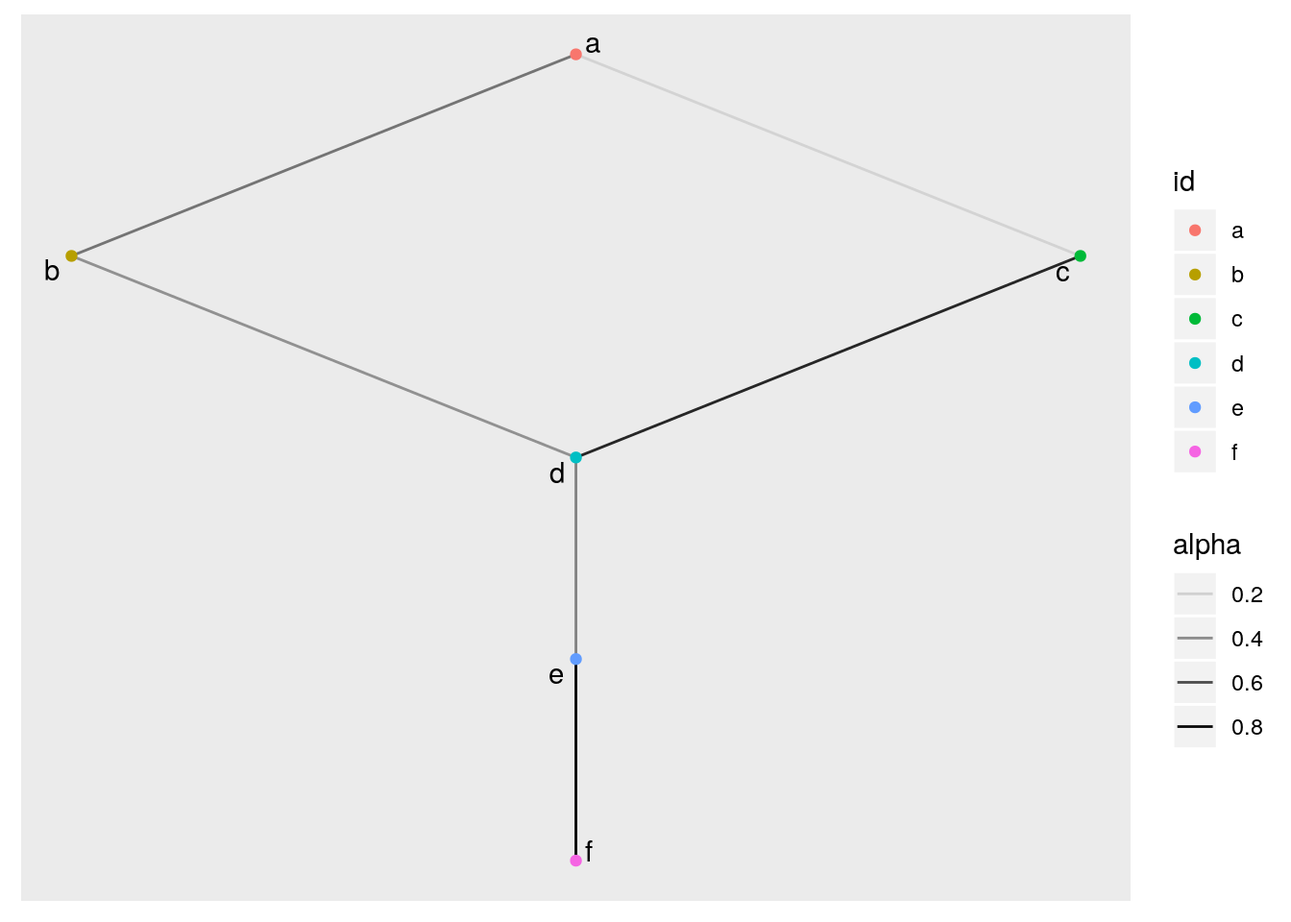
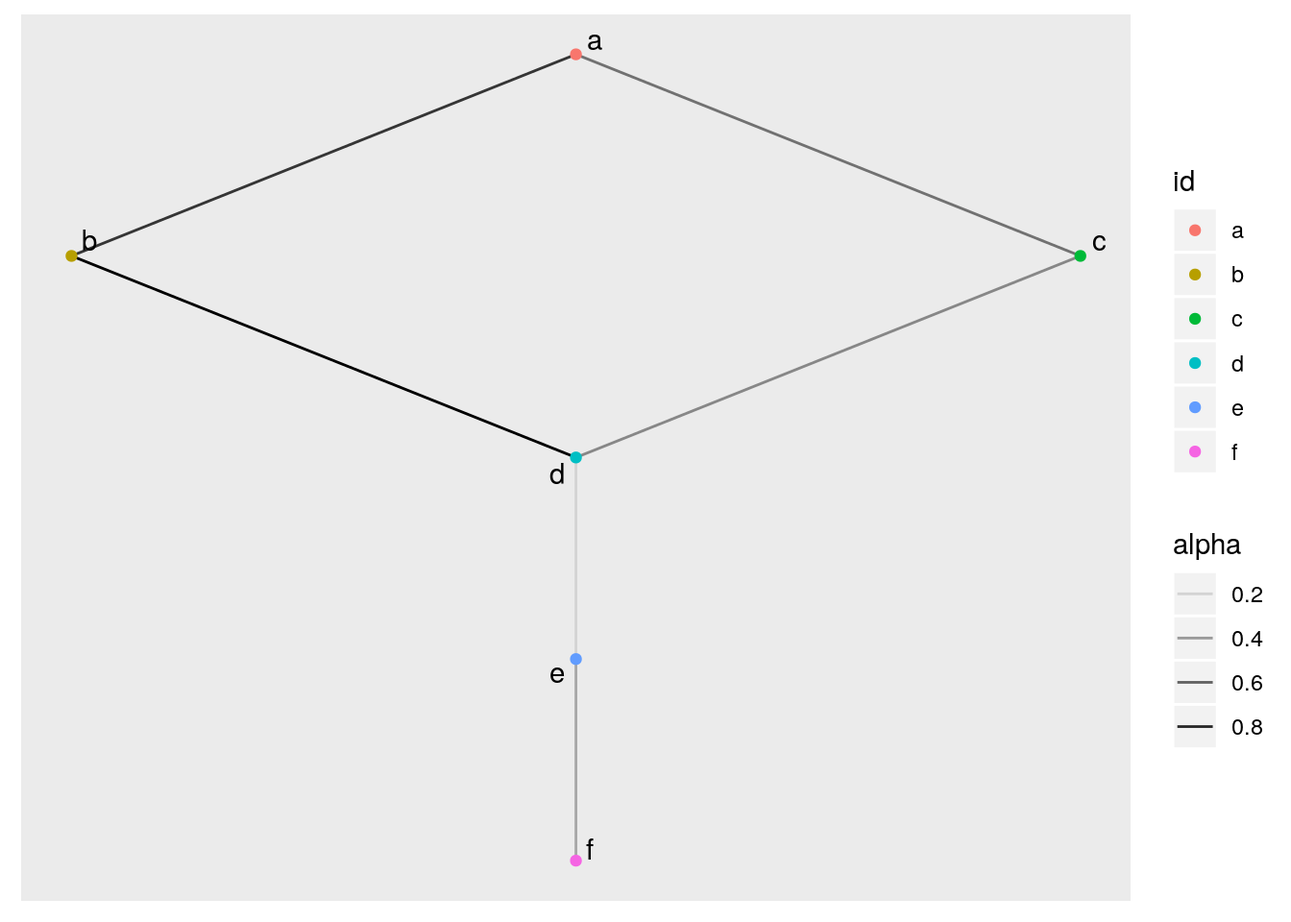
claire edits

diff --git a/content/post/2020-03-08-intro-to-networks.html b/content/post/2020-03-08-intro-to-networks.html
@@ -14,7 +14,7 @@ description: 'Using the tidygraph, ggraph, and networkD3 packages'
 
 
 <p>In this post I will walk you through the basics of working with network objects in R. First we’ll create a simple network from scratch, manipulate it using tidygraph’s very clean framework, and then do some simple plotting using ggraph and networkD3. After that we will step it up a bit with a larger dataset to calculate some network metrics.</p>
-<p>My goal for this post is to show how the basic manipulation steps from the simple example can also be used on much more intense data to easily allow us to carry out a lot of complex calculations with very little code. I would like to note all of this is possible because of the huge effort software developers have put into projects like <code>igraph</code>, <code>tidygraph</code>, <code>ggraph</code>, and <code>networkD3</code>.</p>
+<p>My goal for this post is to show how the basic manipulation steps from the simple example can also be used on much more complicated data to easily allow us to carry out many complex calculations with very little code. I would like to note that all of this is possible because of the huge effort software developers have put into projects like <code>igraph</code>, <code>tidygraph</code>, <code>ggraph</code>, and <code>networkD3</code>.</p>
 <div id="libraries-needed" class="section level1">
 <h1>Libraries needed:</h1>
 <pre class="r"><code>library(tidygraph) # Network manipulation
@@ -26,14 +26,14 @@ library(networkD3) # Interactive network plotting</code></pre>
 </div>
 <div id="lets-make-a-simple-graph" class="section level1">
 <h1>Lets make a simple graph!</h1>
-<p>Making networks is much easier than it sounds. We can build one by combining two vectors of equal length. All it takes is two simple vectors of equal length, then just bind them into a dataframe.</p>
+<p>Making networks is much easier than it sounds. We can build one by creating two vectors of equal length and then binding them into a dataframe.</p>
 <pre class="r"><code>from  &lt;- c(1, 1, 2, 3, 4, 5)
 
 to    &lt;- c(2, 3, 4, 4 ,5, 6)
 
 # combine the from and to vectors into a simple dataframe 
 basic &lt;- tibble(from, to)</code></pre>
-<p>What we just made is called an “edge list” which is essentially a dataframe that says “there is a connection from node 1 to node 2, another from node 1 to node 3.” And on and on… This is minimal unit for a network. We have our nodes (all the unique elements in our network 1, 2, 3, 4, 5, and 6) and the information of how they are connected (the order in which they appear in the data).</p>
+<p>What we just made is called an “edge list” which is essentially a dataframe that says “there is a connection from node 1 to node 2, another from node 1 to node 3.” And on and on… This is the minimal unit for a network. We have our nodes (all the unique elements in our network 1, 2, 3, 4, 5, and 6) and the information of how they are connected (the order in which they appear in the data).</p>
 <p>Nodes typically represent the “actors” of our network. They could be governmental entities, animals, corporations, anything really. If you squint hard enough there are networks to be found all around.</p>
 <pre><code>## # A tibble: 6 x 2
 ##    from    to
@@ -52,13 +52,13 @@ basic &lt;- tibble(from, to)</code></pre>
 </div>
 <div id="converting-the-edge-list-to-a-tidygraph-object." class="section level1">
 <h1>Converting the edge list to a tidygraph object.</h1>
-<p>In order to convert the edge list into a tidygraph object we use <code>tidygraph::as_tbl_graph()</code>.</p>
+<p>In order to convert the edge list into a tidygraph object, we use <code>tidygraph::as_tbl_graph()</code>.</p>
 <pre class="r"><code>tidy_basic &lt;- basic %&gt;% 
   as_tbl_graph()</code></pre>
 </div>
 <div id="what-is-a-tidygraph-object" class="section level1">
 <h1>What is a tidygraph object?</h1>
-<p>The tidygraph object is two dataframes connected. The nodes dataframe (each point) and the edge dataframe (each connection). This structure very human readable and allows for easy inspection of our object. Look below at what is returned when we call the tidygraph object.</p>
+<p>The tidygraph object consists of two dataframes connected: The nodes dataframe (each point) and the edge dataframe (each connection). This structure is very human readable and allows for easy inspection of our object. Look below at what is returned when we call the tidygraph object.</p>
 <pre><code>## # A tbl_graph: 6 nodes and 6 edges
 ## #
 ## # A directed acyclic simple graph with 1 component
@@ -80,17 +80,17 @@ basic &lt;- tibble(from, to)</code></pre>
 ## 2     1     3
 ## 3     2     4
 ## # … with 3 more rows</code></pre>
-<p>Tidygraph is powerful because it is a thin wrapper around igraph, and igraph is very very powerful. Tidygraph allows us to use the easily readable code that we are use to from the tidyverse to manipulate igraph objects.</p>
+<p>Tidygraph allows us to use the easily readable code that we are used to from the tidyverse to manipulate igraph objects.</p>
 </div>
 <div id="working-with-tidygraph" class="section level1">
 <h1>Working with tidygraph</h1>
-<p>In order to manipulate the <code>tbl_graph</code> we need to tell R which of the two data frames we want to operate on. This is done with <code>activate(nodes)</code> or <code>activate(edges)</code>. I will show how we would name each node, and give each edge a random amount of transparency. Note the activate call between the operations.</p>
+<p>In order to manipulate the <code>tbl_graph</code> we need to tell R which of the two data frames we want to operate on. This is done with <code>activate(nodes)</code> or <code>activate(edges)</code>. I will show how we can name each node and give each edge a random amount of transparency. Note the activate call between the operations.</p>
 <pre class="r"><code>tidy_basic_manipulated &lt;- tidy_basic %&gt;% 
   activate(nodes) %&gt;%              # tell tidygraph we want to work on the modes dataframe
   mutate(id = letters[1:6]) %&gt;%    # adding an id column for each node a - f
   activate(edges) %&gt;%              # tell tidygraph we want to work on the edge dataframe
   mutate(alpha = runif(6, min = 0, max = 1)) # give each edge a random transparency value</code></pre>
-<p>Now let’s take a quick look at the columns we added to the plot. We can see the new alpha column added to the edges, and the id column added to the nodes. Also because the edges were the last thing I activated they are still active here.</p>
+<p>Now let’s take a quick look at the columns we added to the plot. We can see the new alpha column added to the edges and the id column added to the nodes.</p>
 <pre><code>## # A tbl_graph: 6 nodes and 6 edges
 ## #
 ## # A directed acyclic simple graph with 1 component
@@ -98,12 +98,12 @@ basic &lt;- tibble(from, to)</code></pre>
 ## # Edge Data: 6 x 3 (active)
 ##    from    to alpha
 ##   &lt;int&gt; &lt;int&gt; &lt;dbl&gt;
-## 1     1     2 0.468
-## 2     1     3 0.169
-## 3     2     4 0.377
-## 4     3     4 0.713
-## 5     4     5 0.420
-## 6     5     6 0.831
+## 1     1     2 0.749
+## 2     1     3 0.530
+## 3     2     4 0.939
+## 4     3     4 0.452
+## 5     4     5 0.177
+## 6     5     6 0.337
 ## #
 ## # Node Data: 6 x 2
 ##   name  id   
@@ -115,7 +115,7 @@ basic &lt;- tibble(from, to)</code></pre>
 </div>
 <div id="some-quick-plotting-using-ggraph." class="section level1">
 <h1>Some quick plotting using ggraph.</h1>
-<p>We will delve into this a bit more later so for now lets make a basic plot. In order to use ggraph we need to specify the layout, (I will explain this later) and we need to give both the nodes and edges a <code>geom_</code>.</p>
+<p>We will delve into this a bit more later, so for now lets just make a basic plot. In order to use ggraph we need to specify the layout, (I will explain this later) and we need to give both the nodes and edges a <code>geom_</code>.</p>
 <pre class="r"><code>ggraph(tidy_basic_manipulated, layout = &#39;sugiyama&#39;)+
   geom_edge_link  (aes(alpha = alpha)) +          # plot the links between nodes
   geom_node_point (aes(color = id)) +             # add color to the nodes
@@ -125,17 +125,17 @@ Super! We created a simple edge list, made it into a tidy graph object, manipula
 </div>
 <div id="a-slightly-more-complex-example" class="section level1">
 <h1>A slightly more complex example</h1>
-<p>Lets look a the highschool dataset from <code>ggraph</code>. This dataset was made by asking a class of students at a all boys highschool to name list their friends in 1957 and then again in 1958. To keep things simple I am going to just use the first year of data. So, lets filter for the first year of data and turn it into a tidygraph.</p>
+<p>Let’s look at the highschool dataset from <code>ggraph</code>. This dataset was made by asking a class of students at an all boys highschool to list their friends in 1957 and then again in 1958. To keep things simple, I am going to just use the first year of data. So let’s filter for the first year of data and turn it into a tidygraph.</p>
 <pre class="r"><code>hs_tidy &lt;- highschool %&gt;% 
   filter(year == 1957) %&gt;% # remove the time component for this example
   select(-year) %&gt;% # remove the year column we wont be needing it
   as_tbl_graph() # turn the edge list into a tbl_graph</code></pre>
-<p>And lets plot it real quick so we know what we are dealing with.</p>
+<p>And let’s plot it real quick so we know what we are dealing with.</p>
 <pre class="r"><code>ggraph(hs_tidy, layout = &quot;stress&quot;) +
   geom_node_point() +
   geom_edge_link()</code></pre>
 <p><img src="/post/2020-03-08-intro-to-networks_files/figure-html/unnamed-chunk-11-1.png" width="672" /></p>
-<p>Now that we have our data into tidygraph’s tbl_graph object we can easily calculate many statistical measures for each node edge easily combining <code>activate()</code> and <code>mutate()</code>. There are quite a few centrality measures from igraph and <em>all</em> are fully supported with tidygraph. A full list can be found <a href="https://rdrr.io/cran/tidygraph/man/centrality.html">HERE</a>.</p>
+<p>Now that we have our data into tidygraph’s tbl_graph object we can easily calculate many statistical measures for each node or edge by easily combining <code>activate()</code> and <code>mutate()</code>. There are quite a few centrality measures from igraph and <em>all</em> are fully supported with tidygraph. A full list can be found <a href="https://rdrr.io/cran/tidygraph/man/centrality.html">HERE</a>.</p>
 <pre class="r"><code>hs_manipulated &lt;- hs_tidy %&gt;% 
   activate(nodes) %&gt;% 
   mutate(  
@@ -153,7 +153,7 @@ Super! We created a simple edge list, made it into a tidy graph object, manipula
     # calculate edge centrality
     weight =  centrality_edge_betweenness()
   )</code></pre>
-<p>Just like that we calculated two types of node centrality, ran two grouping algorithms, and calculated edge betweenness! Let’s take a look at our new metrics</p>
+<p>Just like that, we calculated two types of node centrality, ran two grouping algorithms, and calculated edge betweenness! Let’s take a look at our new metrics.</p>
 <pre><code>## # A tbl_graph: 70 nodes and 243 edges
 ## #
 ## # A directed simple graph with 2 components
@@ -182,7 +182,7 @@ Super! We created a simple edge list, made it into a tidy graph object, manipula
   geom_node_point(aes(color = walktrap,
                       size = central_alpha)) </code></pre>
 <p><img src="/post/2020-03-08-intro-to-networks_files/figure-html/unnamed-chunk-14-1.png" width="672" /></p>
-<p>Now lets play around a bit with some of the functionality of ggraph. This package is made to behave a lot like ggplot2. However, one key difference is the layout argument. This tells ggraph what algorithm to use when laying out the nodes. You can go really deep down this rabbit hole. If you want to you can start creating your own layouts with the <a href="https://cran.r-project.org/web/packages/particles/vignettes/intro.html">particles package</a>.</p>
+<p>Now lets play around a bit with some of the functionality of ggraph. This package is made to behave a lot like ggplot2. However, one key difference is the layout argument. This tells ggraph which algorithm to use when laying out the nodes. You can go really deep down this rabbit hole if you like. If you want to, you can start creating your own layouts with the <a href="https://cran.r-project.org/web/packages/particles/vignettes/intro.html">particles package</a>.</p>
 <p>Or, you can just do what I do and choose random ones until you get one you like.</p>
 <pre class="r"><code>a &lt;- ggraph(hs_manipulated, layout = &quot;kk&quot;) +
   geom_node_point(aes(color = components)) +
@@ -222,11 +222,11 @@ plots_compared &lt;- ((a/b/c) | (d/e/f)) +
 
 plots_compared </code></pre>
 <p><img src="/post/2020-03-08-intro-to-networks_files/figure-html/unnamed-chunk-15-1.png" width="672" /></p>
-<p>Now that you have mastered static plotting, lets take another look at the interactive plotting we can do with networkD3</p>
+<p>Now that you have mastered static plotting, let’s take another look at the interactive plotting we can do with networkD3.</p>
 </div>
 <div id="use-networkd3-to-make-a-more-detailed-plot" class="section level1">
 <h1>Use networkD3 to make a more detailed plot</h1>
-<p>So, unfortunately networkD3 does not play nicely directly with tidygraph so we need to do some finagling. First we need to convert our tidygraph object to a network d3 object using <code>igraph_to_networkD3()</code>. In order to specify the group each nodes belongs in we need to extract a named vector to specify the <code>group</code> argument. Then we need to create our JavaScript color scale.</p>
+<p>Unfortunately, networkD3 does not play nicely with tidygraph so we’ll need to do some finagling. First we need to convert our tidygraph object to a network d3 object using <code>igraph_to_networkD3()</code>. In order to specify the group each nodes belongs in, we need to extract a named vector to specify the <code>group</code> argument. Then we need to create our JavaScript color scale.</p>
 <pre class="r"><code># 1. Make the named vector that specifies which group each node belongs to
 
 ## extract our nodes from tidygraph as a data frame
@@ -262,5 +262,5 @@ forceNetwork(Links = d3_object$links,
              zoom = TRUE)</code></pre>
 <div id="htmlwidget-2" style="width:672px;height:480px;" class="forceNetwork html-widget"></div>
 <script type="application/json" data-for="htmlwidget-2">{"x":{"links":{"source":[28,17,16,18,8,5,26,0,7,0,2,16,38,17,7,11,6,3,24,14,17,16,4,3,9,8,13,5,10,20,11,12,20,0,18,48,1,35,11,10,8,48,10,18,19,11,8,1,35,5,12,29,17,36,36,32,45,65,34,23,33,33,29,43,36,37,27,23,39,23,30,28,24,37,25,20,18,26,43,56,25,31,17,23,21,34,24,28,40,39,23,14,30,23,33,38,30,40,21,14,38,30,33,4,3,29,39,44,51,54,52,31,36,41,47,49,44,32,49,27,54,52,51,42,3,9,45,21,49,50,19,20,35,22,8,21,45,47,9,50,44,49,21,44,9,45,47,43,56,42,19,0,52,46,35,56,54,19,42,46,0,51,42,57,58,36,43,18,62,59,21,57,55,65,21,62,57,29,65,66,51,67,68,64,63,68,53,64,66,59,65,55,21,57,58,60,67,68,66,54,64,61,66,63,61,67,68,60,38,47,62,21,39,49,40,68,61,60,63,64,51,67,15,53,48,46,68,63,54,60,42,51,54,46,53,66,60,64,67,61,63,15,2],"target":[69,9,9,10,10,11,11,12,12,13,13,14,14,14,15,15,15,16,16,16,16,17,17,17,17,18,18,18,18,18,18,19,19,19,19,19,19,19,19,19,19,20,20,20,20,20,20,20,20,20,20,23,24,25,26,27,27,28,28,29,29,30,30,31,31,32,32,32,33,33,33,34,34,34,35,35,35,35,36,36,36,36,3,37,37,37,37,37,38,38,38,38,38,39,39,39,39,39,40,40,40,40,40,40,40,40,40,41,42,42,42,43,43,44,44,44,45,45,45,45,46,46,46,46,4,47,47,47,47,47,48,48,48,48,48,49,49,49,49,49,49,50,50,50,50,50,50,51,51,51,51,51,51,51,52,52,52,52,52,52,52,52,54,55,55,56,56,5,57,57,57,58,58,58,59,59,59,59,59,60,60,60,60,60,61,61,61,61,61,62,62,62,62,62,62,63,63,63,63,63,63,63,64,64,64,64,64,64,65,65,65,65,65,65,65,66,66,66,66,66,66,66,6,67,67,67,67,67,67,67,67,68,68,68,68,68,68,68,68,68,68,7,8],"colour":["#666","#666","#666","#666","#666","#666","#666","#666","#666","#666","#666","#666","#666","#666","#666","#666","#666","#666","#666","#666","#666","#666","#666","#666","#666","#666","#666","#666","#666","#666","#666","#666","#666","#666","#666","#666","#666","#666","#666","#666","#666","#666","#666","#666","#666","#666","#666","#666","#666","#666","#666","#666","#666","#666","#666","#666","#666","#666","#666","#666","#666","#666","#666","#666","#666","#666","#666","#666","#666","#666","#666","#666","#666","#666","#666","#666","#666","#666","#666","#666","#666","#666","#666","#666","#666","#666","#666","#666","#666","#666","#666","#666","#666","#666","#666","#666","#666","#666","#666","#666","#666","#666","#666","#666","#666","#666","#666","#666","#666","#666","#666","#666","#666","#666","#666","#666","#666","#666","#666","#666","#666","#666","#666","#666","#666","#666","#666","#666","#666","#666","#666","#666","#666","#666","#666","#666","#666","#666","#666","#666","#666","#666","#666","#666","#666","#666","#666","#666","#666","#666","#666","#666","#666","#666","#666","#666","#666","#666","#666","#666","#666","#666","#666","#666","#666","#666","#666","#666","#666","#666","#666","#666","#666","#666","#666","#666","#666","#666","#666","#666","#666","#666","#666","#666","#666","#666","#666","#666","#666","#666","#666","#666","#666","#666","#666","#666","#666","#666","#666","#666","#666","#666","#666","#666","#666","#666","#666","#666","#666","#666","#666","#666","#666","#666","#666","#666","#666","#666","#666","#666","#666","#666","#666","#666","#666","#666","#666","#666","#666","#666","#666","#666","#666","#666","#666","#666","#666","#666","#666","#666","#666","#666","#666"]},"nodes":{"name":["1","2","3","4","5","6","7","8","9","11","12","13","14","15","16","17","18","19","20","21","22","23","24","26","27","28","29","30","31","32","33","34","35","36","37","38","39","40","41","42","43","44","45","46","47","48","49","50","51","52","53","54","55","56","57","58","59","60","61","62","63","64","65","66","67","68","69","70","71","10"],"group":[1,1,1,2,2,1,1,1,1,2,1,1,1,1,2,1,2,2,1,1,1,2,1,2,2,1,1,2,2,2,2,1,2,2,2,1,1,2,2,2,2,2,1,1,2,2,1,2,1,2,2,1,1,1,1,2,1,2,2,2,1,1,2,1,1,2,1,1,1,2]},"options":{"NodeID":"name","Group":"group","colourScale":"d3.scaleOrdinal()\n            .domain([\"1\", \"2\"])\n           .range([\"#FF6900\", \"#89cff0\"]);","fontSize":7,"fontFamily":"serif","clickTextSize":17.5,"linkDistance":50,"linkWidth":"function(d) { return Math.sqrt(d.value); }","charge":-30,"opacity":0.6,"zoom":true,"legend":false,"arrows":false,"nodesize":false,"radiusCalculation":" Math.sqrt(d.nodesize)+6","bounded":false,"opacityNoHover":0,"clickAction":null}},"evals":[],"jsHooks":[]}</script>
-<p>We will leave it there for now, but if you are looking for more check out <a href="https://www.data-imaginist.com/2018/tidygraph-1-1-a-tidy-hope/">this awesome post</a> from the creator of tidygraph. Or, for a really cool applied example check out <a href="https://www.samples-of-thoughts.com/2020/connecting-disinformation-with-tidygraph/">this analysis</a> by <span class="citation">[@corrieaar]</span>(<a href="https://twitter.com/corrieaar" class="uri">https://twitter.com/corrieaar</a>).</p>
+<p>We will leave it there for now, but if you are looking for more I recommend <a href="https://www.data-imaginist.com/2018/tidygraph-1-1-a-tidy-hope/">this awesome post</a> from the creator of tidygraph. And for a really cool applied example, check out <a href="https://www.samples-of-thoughts.com/2020/connecting-disinformation-with-tidygraph/">this analysis</a>.</p>
 </div>

diff --git a/public/2020/03/08/2020-03-08-intro-to-networks/index.html b/public/2020/03/08/2020-03-08-intro-to-networks/index.html
@@ -85,7 +85,7 @@
 
 
 <p>In this post I will walk you through the basics of working with network objects in R. First we’ll create a simple network from scratch, manipulate it using tidygraph’s very clean framework, and then do some simple plotting using ggraph and networkD3. After that we will step it up a bit with a larger dataset to calculate some network metrics.</p>
-<p>My goal for this post is to show how the basic manipulation steps from the simple example can also be used on much more intense data to easily allow us to carry out a lot of complex calculations with very little code. I would like to note all of this is possible because of the huge effort software developers have put into projects like <code>igraph</code>, <code>tidygraph</code>, <code>ggraph</code>, and <code>networkD3</code>.</p>
+<p>My goal for this post is to show how the basic manipulation steps from the simple example can also be used on much more complicated data to easily allow us to carry out many complex calculations with very little code. I would like to note that all of this is possible because of the huge effort software developers have put into projects like <code>igraph</code>, <code>tidygraph</code>, <code>ggraph</code>, and <code>networkD3</code>.</p>
 <div id="libraries-needed" class="section level1">
 <h1>Libraries needed:</h1>
 <pre class="r"><code>library(tidygraph) # Network manipulation
@@ -97,14 +97,14 @@ library(networkD3) # Interactive network plotting</code></pre>
 </div>
 <div id="lets-make-a-simple-graph" class="section level1">
 <h1>Lets make a simple graph!</h1>
-<p>Making networks is much easier than it sounds. We can build one by combining two vectors of equal length. All it takes is two simple vectors of equal length, then just bind them into a dataframe.</p>
+<p>Making networks is much easier than it sounds. We can build one by creating two vectors of equal length and then binding them into a dataframe.</p>
 <pre class="r"><code>from  &lt;- c(1, 1, 2, 3, 4, 5)
 
 to    &lt;- c(2, 3, 4, 4 ,5, 6)
 
 # combine the from and to vectors into a simple dataframe 
 basic &lt;- tibble(from, to)</code></pre>
-<p>What we just made is called an “edge list” which is essentially a dataframe that says “there is a connection from node 1 to node 2, another from node 1 to node 3.” And on and on… This is minimal unit for a network. We have our nodes (all the unique elements in our network 1, 2, 3, 4, 5, and 6) and the information of how they are connected (the order in which they appear in the data).</p>
+<p>What we just made is called an “edge list” which is essentially a dataframe that says “there is a connection from node 1 to node 2, another from node 1 to node 3.” And on and on… This is the minimal unit for a network. We have our nodes (all the unique elements in our network 1, 2, 3, 4, 5, and 6) and the information of how they are connected (the order in which they appear in the data).</p>
 <p>Nodes typically represent the “actors” of our network. They could be governmental entities, animals, corporations, anything really. If you squint hard enough there are networks to be found all around.</p>
 <pre><code>## # A tibble: 6 x 2
 ##    from    to
@@ -123,13 +123,13 @@ basic &lt;- tibble(from, to)</code></pre>
 </div>
 <div id="converting-the-edge-list-to-a-tidygraph-object." class="section level1">
 <h1>Converting the edge list to a tidygraph object.</h1>
-<p>In order to convert the edge list into a tidygraph object we use <code>tidygraph::as_tbl_graph()</code>.</p>
+<p>In order to convert the edge list into a tidygraph object, we use <code>tidygraph::as_tbl_graph()</code>.</p>
 <pre class="r"><code>tidy_basic &lt;- basic %&gt;% 
   as_tbl_graph()</code></pre>
 </div>
 <div id="what-is-a-tidygraph-object" class="section level1">
 <h1>What is a tidygraph object?</h1>
-<p>The tidygraph object is two dataframes connected. The nodes dataframe (each point) and the edge dataframe (each connection). This structure very human readable and allows for easy inspection of our object. Look below at what is returned when we call the tidygraph object.</p>
+<p>The tidygraph object consists of two dataframes connected: The nodes dataframe (each point) and the edge dataframe (each connection). This structure is very human readable and allows for easy inspection of our object. Look below at what is returned when we call the tidygraph object.</p>
 <pre><code>## # A tbl_graph: 6 nodes and 6 edges
 ## #
 ## # A directed acyclic simple graph with 1 component
@@ -151,17 +151,17 @@ basic &lt;- tibble(from, to)</code></pre>
 ## 2     1     3
 ## 3     2     4
 ## # … with 3 more rows</code></pre>
-<p>Tidygraph is powerful because it is a thin wrapper around igraph, and igraph is very very powerful. Tidygraph allows us to use the easily readable code that we are use to from the tidyverse to manipulate igraph objects.</p>
+<p>Tidygraph allows us to use the easily readable code that we are used to from the tidyverse to manipulate igraph objects.</p>
 </div>
 <div id="working-with-tidygraph" class="section level1">
 <h1>Working with tidygraph</h1>
-<p>In order to manipulate the <code>tbl_graph</code> we need to tell R which of the two data frames we want to operate on. This is done with <code>activate(nodes)</code> or <code>activate(edges)</code>. I will show how we would name each node, and give each edge a random amount of transparency. Note the activate call between the operations.</p>
+<p>In order to manipulate the <code>tbl_graph</code> we need to tell R which of the two data frames we want to operate on. This is done with <code>activate(nodes)</code> or <code>activate(edges)</code>. I will show how we can name each node and give each edge a random amount of transparency. Note the activate call between the operations.</p>
 <pre class="r"><code>tidy_basic_manipulated &lt;- tidy_basic %&gt;% 
   activate(nodes) %&gt;%              # tell tidygraph we want to work on the modes dataframe
   mutate(id = letters[1:6]) %&gt;%    # adding an id column for each node a - f
   activate(edges) %&gt;%              # tell tidygraph we want to work on the edge dataframe
   mutate(alpha = runif(6, min = 0, max = 1)) # give each edge a random transparency value</code></pre>
-<p>Now let’s take a quick look at the columns we added to the plot. We can see the new alpha column added to the edges, and the id column added to the nodes. Also because the edges were the last thing I activated they are still active here.</p>
+<p>Now let’s take a quick look at the columns we added to the plot. We can see the new alpha column added to the edges and the id column added to the nodes.</p>
 <pre><code>## # A tbl_graph: 6 nodes and 6 edges
 ## #
 ## # A directed acyclic simple graph with 1 component
@@ -169,12 +169,12 @@ basic &lt;- tibble(from, to)</code></pre>
 ## # Edge Data: 6 x 3 (active)
 ##    from    to alpha
 ##   &lt;int&gt; &lt;int&gt; &lt;dbl&gt;
-## 1     1     2 0.468
-## 2     1     3 0.169
-## 3     2     4 0.377
-## 4     3     4 0.713
-## 5     4     5 0.420
-## 6     5     6 0.831
+## 1     1     2 0.749
+## 2     1     3 0.530
+## 3     2     4 0.939
+## 4     3     4 0.452
+## 5     4     5 0.177
+## 6     5     6 0.337
 ## #
 ## # Node Data: 6 x 2
 ##   name  id   
@@ -186,7 +186,7 @@ basic &lt;- tibble(from, to)</code></pre>
 </div>
 <div id="some-quick-plotting-using-ggraph." class="section level1">
 <h1>Some quick plotting using ggraph.</h1>
-<p>We will delve into this a bit more later so for now lets make a basic plot. In order to use ggraph we need to specify the layout, (I will explain this later) and we need to give both the nodes and edges a <code>geom_</code>.</p>
+<p>We will delve into this a bit more later, so for now lets just make a basic plot. In order to use ggraph we need to specify the layout, (I will explain this later) and we need to give both the nodes and edges a <code>geom_</code>.</p>
 <pre class="r"><code>ggraph(tidy_basic_manipulated, layout = &#39;sugiyama&#39;)+
   geom_edge_link  (aes(alpha = alpha)) +          # plot the links between nodes
   geom_node_point (aes(color = id)) +             # add color to the nodes
@@ -196,17 +196,17 @@ Super! We created a simple edge list, made it into a tidy graph object, manipula
 </div>
 <div id="a-slightly-more-complex-example" class="section level1">
 <h1>A slightly more complex example</h1>
-<p>Lets look a the highschool dataset from <code>ggraph</code>. This dataset was made by asking a class of students at a all boys highschool to name list their friends in 1957 and then again in 1958. To keep things simple I am going to just use the first year of data. So, lets filter for the first year of data and turn it into a tidygraph.</p>
+<p>Let’s look at the highschool dataset from <code>ggraph</code>. This dataset was made by asking a class of students at an all boys highschool to list their friends in 1957 and then again in 1958. To keep things simple, I am going to just use the first year of data. So let’s filter for the first year of data and turn it into a tidygraph.</p>
 <pre class="r"><code>hs_tidy &lt;- highschool %&gt;% 
   filter(year == 1957) %&gt;% # remove the time component for this example
   select(-year) %&gt;% # remove the year column we wont be needing it
   as_tbl_graph() # turn the edge list into a tbl_graph</code></pre>
-<p>And lets plot it real quick so we know what we are dealing with.</p>
+<p>And let’s plot it real quick so we know what we are dealing with.</p>
 <pre class="r"><code>ggraph(hs_tidy, layout = &quot;stress&quot;) +
   geom_node_point() +
   geom_edge_link()</code></pre>
 <p><img src="../../../../post/2020-03-08-intro-to-networks_files/figure-html/unnamed-chunk-11-1.png" width="672" /></p>
-<p>Now that we have our data into tidygraph’s tbl_graph object we can easily calculate many statistical measures for each node edge easily combining <code>activate()</code> and <code>mutate()</code>. There are quite a few centrality measures from igraph and <em>all</em> are fully supported with tidygraph. A full list can be found <a href="https://rdrr.io/cran/tidygraph/man/centrality.html">HERE</a>.</p>
+<p>Now that we have our data into tidygraph’s tbl_graph object we can easily calculate many statistical measures for each node or edge by easily combining <code>activate()</code> and <code>mutate()</code>. There are quite a few centrality measures from igraph and <em>all</em> are fully supported with tidygraph. A full list can be found <a href="https://rdrr.io/cran/tidygraph/man/centrality.html">HERE</a>.</p>
 <pre class="r"><code>hs_manipulated &lt;- hs_tidy %&gt;% 
   activate(nodes) %&gt;% 
   mutate(  
@@ -224,7 +224,7 @@ Super! We created a simple edge list, made it into a tidy graph object, manipula
     # calculate edge centrality
     weight =  centrality_edge_betweenness()
   )</code></pre>
-<p>Just like that we calculated two types of node centrality, ran two grouping algorithms, and calculated edge betweenness! Let’s take a look at our new metrics</p>
+<p>Just like that, we calculated two types of node centrality, ran two grouping algorithms, and calculated edge betweenness! Let’s take a look at our new metrics.</p>
 <pre><code>## # A tbl_graph: 70 nodes and 243 edges
 ## #
 ## # A directed simple graph with 2 components
@@ -253,7 +253,7 @@ Super! We created a simple edge list, made it into a tidy graph object, manipula
   geom_node_point(aes(color = walktrap,
                       size = central_alpha)) </code></pre>
 <p><img src="../../../../post/2020-03-08-intro-to-networks_files/figure-html/unnamed-chunk-14-1.png" width="672" /></p>
-<p>Now lets play around a bit with some of the functionality of ggraph. This package is made to behave a lot like ggplot2. However, one key difference is the layout argument. This tells ggraph what algorithm to use when laying out the nodes. You can go really deep down this rabbit hole. If you want to you can start creating your own layouts with the <a href="https://cran.r-project.org/web/packages/particles/vignettes/intro.html">particles package</a>.</p>
+<p>Now lets play around a bit with some of the functionality of ggraph. This package is made to behave a lot like ggplot2. However, one key difference is the layout argument. This tells ggraph which algorithm to use when laying out the nodes. You can go really deep down this rabbit hole if you like. If you want to, you can start creating your own layouts with the <a href="https://cran.r-project.org/web/packages/particles/vignettes/intro.html">particles package</a>.</p>
 <p>Or, you can just do what I do and choose random ones until you get one you like.</p>
 <pre class="r"><code>a &lt;- ggraph(hs_manipulated, layout = &quot;kk&quot;) +
   geom_node_point(aes(color = components)) +
@@ -293,11 +293,11 @@ plots_compared &lt;- ((a/b/c) | (d/e/f)) +
 
 plots_compared </code></pre>
 <p><img src="../../../../post/2020-03-08-intro-to-networks_files/figure-html/unnamed-chunk-15-1.png" width="672" /></p>
-<p>Now that you have mastered static plotting, lets take another look at the interactive plotting we can do with networkD3</p>
+<p>Now that you have mastered static plotting, let’s take another look at the interactive plotting we can do with networkD3.</p>
 </div>
 <div id="use-networkd3-to-make-a-more-detailed-plot" class="section level1">
 <h1>Use networkD3 to make a more detailed plot</h1>
-<p>So, unfortunately networkD3 does not play nicely directly with tidygraph so we need to do some finagling. First we need to convert our tidygraph object to a network d3 object using <code>igraph_to_networkD3()</code>. In order to specify the group each nodes belongs in we need to extract a named vector to specify the <code>group</code> argument. Then we need to create our JavaScript color scale.</p>
+<p>Unfortunately, networkD3 does not play nicely with tidygraph so we’ll need to do some finagling. First we need to convert our tidygraph object to a network d3 object using <code>igraph_to_networkD3()</code>. In order to specify the group each nodes belongs in, we need to extract a named vector to specify the <code>group</code> argument. Then we need to create our JavaScript color scale.</p>
 <pre class="r"><code># 1. Make the named vector that specifies which group each node belongs to
 
 ## extract our nodes from tidygraph as a data frame
@@ -333,7 +333,7 @@ forceNetwork(Links = d3_object$links,
              zoom = TRUE)</code></pre>
 <div id="htmlwidget-2" style="width:672px;height:480px;" class="forceNetwork html-widget"></div>
 <script type="application/json" data-for="htmlwidget-2">{"x":{"links":{"source":[28,17,16,18,8,5,26,0,7,0,2,16,38,17,7,11,6,3,24,14,17,16,4,3,9,8,13,5,10,20,11,12,20,0,18,48,1,35,11,10,8,48,10,18,19,11,8,1,35,5,12,29,17,36,36,32,45,65,34,23,33,33,29,43,36,37,27,23,39,23,30,28,24,37,25,20,18,26,43,56,25,31,17,23,21,34,24,28,40,39,23,14,30,23,33,38,30,40,21,14,38,30,33,4,3,29,39,44,51,54,52,31,36,41,47,49,44,32,49,27,54,52,51,42,3,9,45,21,49,50,19,20,35,22,8,21,45,47,9,50,44,49,21,44,9,45,47,43,56,42,19,0,52,46,35,56,54,19,42,46,0,51,42,57,58,36,43,18,62,59,21,57,55,65,21,62,57,29,65,66,51,67,68,64,63,68,53,64,66,59,65,55,21,57,58,60,67,68,66,54,64,61,66,63,61,67,68,60,38,47,62,21,39,49,40,68,61,60,63,64,51,67,15,53,48,46,68,63,54,60,42,51,54,46,53,66,60,64,67,61,63,15,2],"target":[69,9,9,10,10,11,11,12,12,13,13,14,14,14,15,15,15,16,16,16,16,17,17,17,17,18,18,18,18,18,18,19,19,19,19,19,19,19,19,19,19,20,20,20,20,20,20,20,20,20,20,23,24,25,26,27,27,28,28,29,29,30,30,31,31,32,32,32,33,33,33,34,34,34,35,35,35,35,36,36,36,36,3,37,37,37,37,37,38,38,38,38,38,39,39,39,39,39,40,40,40,40,40,40,40,40,40,41,42,42,42,43,43,44,44,44,45,45,45,45,46,46,46,46,4,47,47,47,47,47,48,48,48,48,48,49,49,49,49,49,49,50,50,50,50,50,50,51,51,51,51,51,51,51,52,52,52,52,52,52,52,52,54,55,55,56,56,5,57,57,57,58,58,58,59,59,59,59,59,60,60,60,60,60,61,61,61,61,61,62,62,62,62,62,62,63,63,63,63,63,63,63,64,64,64,64,64,64,65,65,65,65,65,65,65,66,66,66,66,66,66,66,6,67,67,67,67,67,67,67,67,68,68,68,68,68,68,68,68,68,68,7,8],"colour":["#666","#666","#666","#666","#666","#666","#666","#666","#666","#666","#666","#666","#666","#666","#666","#666","#666","#666","#666","#666","#666","#666","#666","#666","#666","#666","#666","#666","#666","#666","#666","#666","#666","#666","#666","#666","#666","#666","#666","#666","#666","#666","#666","#666","#666","#666","#666","#666","#666","#666","#666","#666","#666","#666","#666","#666","#666","#666","#666","#666","#666","#666","#666","#666","#666","#666","#666","#666","#666","#666","#666","#666","#666","#666","#666","#666","#666","#666","#666","#666","#666","#666","#666","#666","#666","#666","#666","#666","#666","#666","#666","#666","#666","#666","#666","#666","#666","#666","#666","#666","#666","#666","#666","#666","#666","#666","#666","#666","#666","#666","#666","#666","#666","#666","#666","#666","#666","#666","#666","#666","#666","#666","#666","#666","#666","#666","#666","#666","#666","#666","#666","#666","#666","#666","#666","#666","#666","#666","#666","#666","#666","#666","#666","#666","#666","#666","#666","#666","#666","#666","#666","#666","#666","#666","#666","#666","#666","#666","#666","#666","#666","#666","#666","#666","#666","#666","#666","#666","#666","#666","#666","#666","#666","#666","#666","#666","#666","#666","#666","#666","#666","#666","#666","#666","#666","#666","#666","#666","#666","#666","#666","#666","#666","#666","#666","#666","#666","#666","#666","#666","#666","#666","#666","#666","#666","#666","#666","#666","#666","#666","#666","#666","#666","#666","#666","#666","#666","#666","#666","#666","#666","#666","#666","#666","#666","#666","#666","#666","#666","#666","#666","#666","#666","#666","#666","#666","#666","#666","#666","#666","#666","#666","#666"]},"nodes":{"name":["1","2","3","4","5","6","7","8","9","11","12","13","14","15","16","17","18","19","20","21","22","23","24","26","27","28","29","30","31","32","33","34","35","36","37","38","39","40","41","42","43","44","45","46","47","48","49","50","51","52","53","54","55","56","57","58","59","60","61","62","63","64","65","66","67","68","69","70","71","10"],"group":[1,1,1,2,2,1,1,1,1,2,1,1,1,1,2,1,2,2,1,1,1,2,1,2,2,1,1,2,2,2,2,1,2,2,2,1,1,2,2,2,2,2,1,1,2,2,1,2,1,2,2,1,1,1,1,2,1,2,2,2,1,1,2,1,1,2,1,1,1,2]},"options":{"NodeID":"name","Group":"group","colourScale":"d3.scaleOrdinal()\n            .domain([\"1\", \"2\"])\n           .range([\"#FF6900\", \"#89cff0\"]);","fontSize":7,"fontFamily":"serif","clickTextSize":17.5,"linkDistance":50,"linkWidth":"function(d) { return Math.sqrt(d.value); }","charge":-30,"opacity":0.6,"zoom":true,"legend":false,"arrows":false,"nodesize":false,"radiusCalculation":" Math.sqrt(d.nodesize)+6","bounded":false,"opacityNoHover":0,"clickAction":null}},"evals":[],"jsHooks":[]}</script>
-<p>We will leave it there for now, but if you are looking for more check out <a href="https://www.data-imaginist.com/2018/tidygraph-1-1-a-tidy-hope/">this awesome post</a> from the creator of tidygraph. Or, for a really cool applied example check out <a href="https://www.samples-of-thoughts.com/2020/connecting-disinformation-with-tidygraph/">this analysis</a> by <span class="citation">[@corrieaar]</span>(<a href="https://twitter.com/corrieaar" class="uri">https://twitter.com/corrieaar</a>).</p>
+<p>We will leave it there for now, but if you are looking for more I recommend <a href="https://www.data-imaginist.com/2018/tidygraph-1-1-a-tidy-hope/">this awesome post</a> from the creator of tidygraph. And for a really cool applied example, check out <a href="https://www.samples-of-thoughts.com/2020/connecting-disinformation-with-tidygraph/">this analysis</a>.</p>
 </div>
 
 </div>
